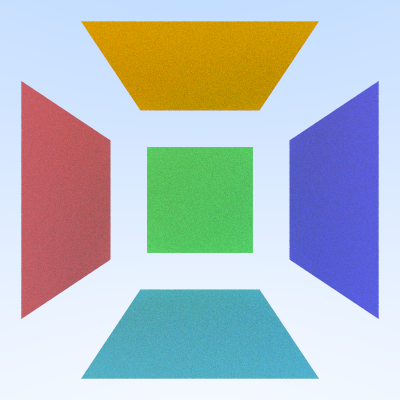
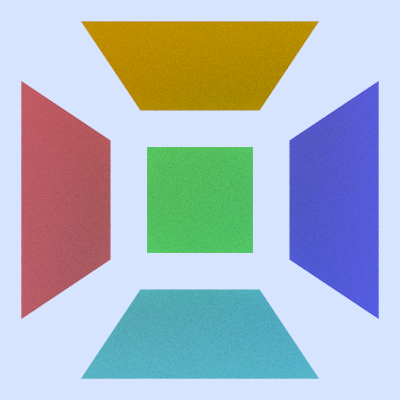
added lights

Changed region(s): [[0.0, 0.84, 1.0, 1.0], [0.21, 0.03, 0.78, 0.3]]

diff --git a/src/main.cpp b/src/main.cpp
@@ -75,7 +75,7 @@ void bouncing_spheres(const char* filename) {
     cam.focus_dist = 10.0;
 
     cam.num_threads = 4;
-
+    cam.background        = color(0.70, 0.80, 1.00);
     cam.render(world, filename);
 
 }
@@ -101,7 +101,7 @@ void checkered_spheres(const char* filename) {
     cam.vup      = vec3(0,1,0);
 
     cam.defocus_angle = 0;
-
+    cam.background        = color(0.70, 0.80, 1.00);
     cam.render(world, filename);
 }
 
@@ -123,7 +123,7 @@ void earth(const char* filenamein, const char* filenameout) {
     cam.vup      = vec3(0,1,0);
 
     cam.defocus_angle = 0;
-
+    cam.background        = color(0.70, 0.80, 1.00);
     cam.render(hittable_list(globe), filenameout);
 }
 
@@ -147,7 +147,7 @@ void perlin_spheres(const char* filename) {
     cam.vup      = vec3(0,1,0);
 
     cam.defocus_angle = 0;
-
+    cam.background        = color(0.70, 0.80, 1.00);
     cam.render(world, filename);
 }
 
@@ -182,6 +182,37 @@ void quads(const char* filename) {
 
     cam.defocus_angle = 0;
 
+    cam.num_threads = 4;
+    cam.background        = color(0.70, 0.80, 1.00);
+    cam.render(world, filename);
+}
+
+void simple_light(const char* filename) {
+    hittable_list world;
+
+    auto pertext = make_shared<noise_texture>(4);
+    world.add(make_shared<sphere>(point3(0,-1000,0), 1000, make_shared<lambertian>(pertext)));
+    world.add(make_shared<sphere>(point3(0,2,0), 2, make_shared<lambertian>(pertext)));
+
+    auto difflight = make_shared<diffuse_light>(color(4,4,4));
+    world.add(make_shared<sphere>(point3(0,7,0), 2, difflight));
+    world.add(make_shared<quad>(point3(3,1,-2), vec3(2,0,0), vec3(0,2,0), difflight));
+
+    camera cam;
+
+    cam.aspect_ratio      = 16.0 / 9.0;
+    cam.image_width       = 400;
+    cam.samples_per_pixel = 100;
+    cam.max_depth         = 50;
+    cam.background        = color(0,0,0);
+
+    cam.vfov     = 20;
+    cam.lookfrom = point3(26,3,6);
+    cam.lookat   = point3(0,2,0);
+    cam.vup      = vec3(0,1,0);
+
+    cam.defocus_angle = 0;
+
     cam.render(world, filename);
 }
 
@@ -192,5 +223,6 @@ int main(int argc, char * argv[]) {
         case '3': earth(argv[2], argv[3]); break;
         case '4': perlin_spheres(argv[2]); break;
         case '5': quads(argv[2]); break;
+        case '6': simple_light(argv[2]); break;
     }
 }

diff --git a/src/camera.h b/src/camera.h
@@ -22,6 +22,7 @@ class camera {
     double defocus_angle = 0;
     double focus_dist = 10;
     int num_threads = 4;
+    color background;
 
     void render(const hittable& world, const char* filename) {
         initialize(); 
@@ -189,16 +190,15 @@ class camera {
         if(world.hit(r, interval(0.001, infinity), rec)) {
             ray scattered;
             color attenuation;
+            color emitted_color = rec.mat->emitted(rec.u,rec.v,rec.p);
             if (rec.mat->scatter(r, rec, attenuation, scattered)) {
-                return attenuation * ray_color(scattered, depth_remaining - 1, world);
+                return attenuation * ray_color(scattered, depth_remaining - 1, world) + emitted_color;
             }
-            return color(0,0,0);
+            return emitted_color;
         }
 
         // otherwise render background
-        vec3 unit_direction = unit_vector(r.direction());
-        auto a = 0.5*(unit_direction.y() + 1.0);
-        return (1 - a) * color(1.0,1.0,1.0) + a * color(0.5, 0.7, 1.0);
+        return background;
     }
 };
 

diff --git a/src/material.h b/src/material.h
@@ -14,6 +14,10 @@ class material {
         virtual bool scatter(const ray& r_in, const hit_record& rec, color& attenuation, ray& scattered) const {
             return false;
         }
+
+        virtual color emitted(double u, double v, const point3& p) const {
+            return color(0,0,0);
+        }
 };
 
 class lambertian : public material {
@@ -92,6 +96,19 @@ class dialectric : public material {
             r0 = r0 * r0;
             return r0 + (1 - r0) * std::pow(1-cosine,5);
         }
+};
+
+class diffuse_light : public material {
+    public:
+        diffuse_light(shared_ptr<texture> tex) : tex(tex) {}
+        diffuse_light(const color& emit) : tex(make_shared<solid_color>(emit)) {}
+
+        color emitted(double u, double v, const point3& p) const override {
+            return tex->value(u, v, p);
+        }
+        
+    private:
+        shared_ptr<texture> tex;
 };
 
 #endif

diff --git a/src/texture.h b/src/texture.h
@@ -76,7 +76,7 @@ class noise_texture : public texture {
         noise_texture(double scale) : scale(scale) {}
 
         color value(double u, double v, const point3& p) const override {
-            return color(1,1,1) * noise.turb(p,7);
+            return color(.5, .5, .5) * (1 + std::sin(scale * p.z() + 10 * noise.turb(p, 7)));
         }
 
     private:

diff --git a/README.md b/README.md
@@ -75,7 +75,8 @@ A repo of all the code I wrote while reading the [Ray Tracing in One Weekend Boo
 | 5 | ![hermitian_frequency.png](images/hermitian_frequency.png) | Noise frequency is modifiable and is 4 times larger |
 | 5 | ![perlin_texture.png](images/perlin_texture.png) | Perlin noise: above image but random values are assigned to vectors not doubles |
 | 5 | ![turbulence.png](images/turbulence.png) | Multiple frequencies of perlin noise summed together |
-| 5 | ![quads.png](images/quads.png) | Renders some quads |
+| 6 | ![quads.png](images/quads.png) | Renders some quads |
+| 6 | ![lights.png](images/lights.png) | Adds light source |
 
 ### How to build
 
